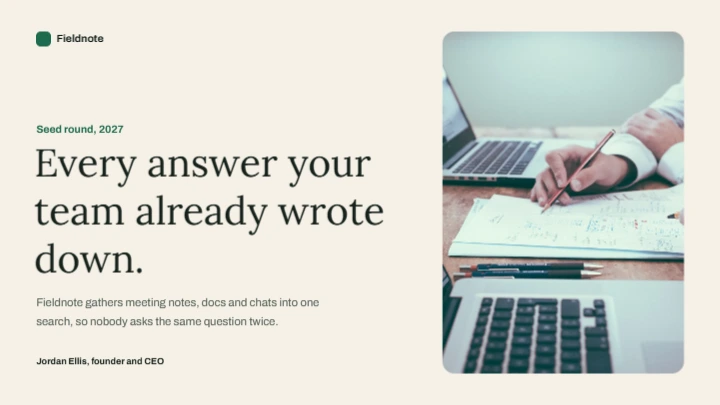
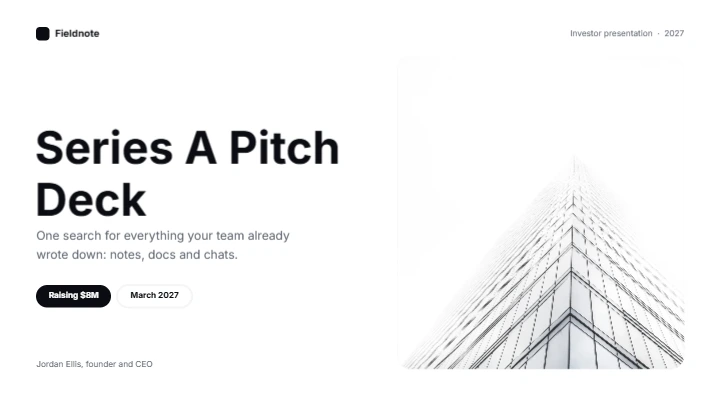
Pitch deck template after the best-selling Series A deck
White slides, heavy sans titles and one blue accent: a cover with a
photo panel and two pills, the problem as three cards (the middle one
dark), and the market as nested TAM/SAM/SOM circles with the figures.

diff --git a/frontend/scripts/templates/designs/pitchDeck.ts b/frontend/scripts/templates/designs/pitchDeck.ts
@@ -1,84 +1,90 @@
 import { DocBuilder, type PageBuilder } from '../kit'
-import type { IconName } from '../icons'
 import type { TemplateDesign } from '../registry'
 
-// Cream and ink with one deep green, the way calm investor decks look: a cover with a real photo, a slide of three
-// numbers and a dark closing slide with the contacts.
+// After the best-selling "Series A" investor deck: white slides, heavy sans titles, a small grey section label, a light
+// grey photo panel on the cover, the problem as three soft cards and the market as nested circles, with one blue accent.
 const W = 1920
 const H = 1080
-const CREAM = '#f5f0e6'
-const INK = '#16211c'
-const MUTED = '#55605a'
-const GREEN = '#1d6b4f'
-const PALE = '#dfe9e1'
-const CARD = '#ffffff'
-const NIGHT = '#16352a'
+const WHITE = '#ffffff'
+const INK = '#0b0d12'
+const MUTED = '#5e6470'
+const SOFT = '#f2f3f5'
+const LINE = '#e3e5e9'
+const BLUE = '#2f5bff'
 
-function logo(p: PageBuilder, on: string, color: string, mark: string): void {
-  p.rect({ name: 'Logo mark', x: 96, y: 84, w: 40, h: 40, fill: mark, radius: 12 })
-  p.text({ name: 'Company name', x: 150, y: 88, w: 500, text: 'Fieldnote', font: 'archivo', bold: true, size: 28, color, on, lines: 1 })
+function header(p: PageBuilder, section: string, index: string): void {
+  p.rect({ name: 'Logo mark', x: 96, y: 72, w: 36, h: 36, fill: INK, radius: 10 })
+  p.text({ name: 'Company name', x: 146, y: 74, w: 400, text: 'Fieldnote', font: 'inter', bold: true, size: 26, color: INK, on: WHITE, lines: 1 })
+  p.text({ name: 'Section', x: 1424, y: 78, w: 400, text: `${section}  ·  ${index}`, font: 'inter', size: 22, color: MUTED, on: WHITE, align: 'right', lines: 1 })
 }
 
 export const pitchDeck: TemplateDesign = {
   slug: 'modern-pitch-deck',
   title: 'Modern pitch deck',
   category: 'presentations',
-  tags: ['presentation', 'pitch', 'startup', 'deck', 'business', 'investor'],
-  description: 'A calm 16:9 pitch deck in cream, ink and deep green: a cover with a photo, a slide of three numbers and a closing slide with your contacts.',
+  tags: ['presentation', 'pitch', 'startup', 'deck', 'business', 'investor', 'series a'],
+  description: 'A clean investor deck in white, ink and one blue: a cover with a photo panel, the problem as three cards and the market as nested circles.',
   preset: 'presentation',
   featured: true,
   async build() {
     const doc = new DocBuilder(this.slug, { width: W, height: H, unit: 'px', presetId: 'presentation' })
 
     // 1. Cover.
-    const cover = doc.page('Cover', { type: 'solid', color: CREAM }, 'Say who you are and why this matters in one sentence.')
-    logo(cover, CREAM, INK, GREEN)
-    cover.text({ name: 'Eyebrow', x: 96, y: 330, w: 900, text: 'Seed round, 2027', font: 'archivo', bold: true, size: 28, color: GREEN, on: CREAM, lines: 1 })
-    cover.text({ name: 'Title', x: 90, y: 380, w: 1000, text: 'Every answer your team already wrote down.', font: 'lora', size: 104, color: INK, on: CREAM, lh: 1.08, lines: 3 })
-    cover.text({ name: 'Subtitle', x: 96, y: 790, w: 820, text: 'Fieldnote gathers meeting notes, docs and chats into one search, so nobody asks the same question twice.', font: 'archivo', size: 30, color: MUTED, on: CREAM, lh: 1.45, lines: 2 })
-    cover.text({ name: 'Presenter', x: 96, y: 950, w: 900, text: 'Jordan Ellis, founder and CEO', font: 'archivo', bold: true, size: 24, color: INK, on: CREAM, lines: 1 })
-    await cover.photo({ name: 'Cover photo', file: 'deck-desk.webp', x: 1180, y: 84, w: 644, h: 912, mask: 'rounded', maskRadius: 0.05, focusX: 0.55, focusY: 0.5 })
+    const cover = doc.page('Cover', { type: 'solid', color: WHITE }, 'Say what you do and what you are raising in one sentence.')
+    header(cover, 'Investor presentation', '2027')
+    cover.text({ name: 'Title', x: 92, y: 330, w: 900, text: 'Series A Pitch Deck', font: 'inter', bold: true, size: 120, color: INK, on: WHITE, lh: 1.02, lines: 2 })
+    cover.text({ name: 'Subtitle', x: 96, y: 610, w: 760, text: 'One search for everything your team already wrote down: notes, docs and chats.', font: 'inter', size: 32, color: MUTED, on: WHITE, lh: 1.4, lines: 2 })
+    cover.rect({ name: 'Pill 1', x: 96, y: 760, w: 200, h: 60, fill: INK, radius: 30 })
+    cover.text({ name: 'Pill 1 label', x: 96, y: 760 + 16, w: 200, text: 'Raising $8M', font: 'inter', bold: true, size: 22, color: WHITE, on: INK, align: 'center', lines: 1 })
+    cover.rect({ name: 'Pill 2', x: 312, y: 760, w: 200, h: 60, fill: WHITE, radius: 30, stroke: LINE, strokeWidth: 2 })
+    cover.text({ name: 'Pill 2 label', x: 312, y: 760 + 16, w: 200, text: 'March 2027', font: 'inter', bold: true, size: 22, color: INK, on: WHITE, align: 'center', lines: 1 })
+    cover.text({ name: 'Presenter', x: 96, y: 960, w: 800, text: 'Jordan Ellis, founder and CEO', font: 'inter', size: 22, color: MUTED, on: WHITE, lines: 1 })
+    cover.rect({ name: 'Photo panel', x: 1060, y: 150, w: 764, h: 834, fill: SOFT, radius: 36 })
+    await cover.photo({ name: 'Cover photo', file: 'deck-architecture.webp', x: 1060, y: 150, w: 764, h: 834, mask: 'rounded', maskRadius: 0.047, focusX: 0.25, focusY: 0.6 })
 
-    // 2. Why now: three numbers.
-    const why = doc.page('Why now', { type: 'solid', color: CREAM }, 'Three facts that make this the right moment. Replace the sample figures with your own and name the source.')
-    logo(why, CREAM, INK, GREEN)
-    why.text({ name: 'Eyebrow', x: 96, y: 220, w: 900, text: 'Why now', font: 'archivo', bold: true, size: 28, color: GREEN, on: CREAM, lines: 1 })
-    why.text({ name: 'Title', x: 92, y: 262, w: 1500, text: 'Teams write more than ever, and find less', font: 'lora', size: 76, color: INK, on: CREAM, lines: 1 })
-    const stats: { icon: IconName; value: string; label: string; text: string }[] = [
-      { icon: 'briefcase', value: '11', label: 'Apps hold a team’s notes', text: 'Docs, chat, email, tickets and meeting tools each keep a piece of the answer.' },
-      { icon: 'clock', value: '5 h', label: 'A week spent searching', text: 'Per person, asking around or searching the same places again.' },
-      { icon: 'user', value: '1 in 3', label: 'Questions already answered', text: 'The answer exists; nobody can find where it was written down.' },
+    // 2. The problem: three cards.
+    const problem = doc.page('The problem', { type: 'solid', color: WHITE }, 'Three problems your customer has today, each in one line.')
+    header(problem, 'The problem', '02')
+    problem.text({ name: 'Title', x: 92, y: 210, w: 1500, text: 'Answers get lost between tools', font: 'inter', bold: true, size: 84, color: INK, on: WHITE, lines: 1 })
+    problem.text({ name: 'Lead', x: 96, y: 330, w: 1200, text: 'Teams write more than ever, and find less of it when they need it.', font: 'inter', size: 30, color: MUTED, on: WHITE, lines: 1 })
+    const cards = [
+      { n: '01', title: 'Notes are everywhere', text: 'Docs, chat, email, tickets and meeting tools each hold part of the answer.' },
+      { n: '02', title: 'Search starts over', text: 'People spend about five hours a week looking for things they have seen before.' },
+      { n: '03', title: 'Questions repeat', text: 'One question in three has been answered already. Nobody can find where.' },
     ]
-    stats.forEach((s, i) => {
+    cards.forEach((c, i) => {
       const x = 96 + i * 584
-      why.rect({ name: `Card ${i + 1}`, x, y: 440, w: 552, h: 480, fill: CARD, radius: 28 })
-      why.circle({ name: `Icon disc ${i + 1}`, cx: x + 76, cy: 516, r: 36, fill: PALE })
-      why.icon({ name: `Icon ${i + 1}`, icon: s.icon, x: x + 56, y: 496, size: 40, color: GREEN, width: 2 })
-      why.text({ name: `Value ${i + 1}`, x: x + 40, y: 580, w: 480, text: s.value, font: 'archivo', bold: true, size: 110, color: GREEN, on: CARD, lh: 1, lines: 1 })
-      why.text({ name: `Label ${i + 1}`, x: x + 40, y: 712, w: 470, text: s.label, font: 'archivo', bold: true, size: 30, color: INK, on: CARD, lh: 1.25, lines: 1 })
-      why.text({ name: `Text ${i + 1}`, x: x + 40, y: 800, w: 470, text: s.text, font: 'archivo', size: 23, color: MUTED, on: CARD, lh: 1.45, lines: 2 })
+      const dark = i === 1
+      const fill = dark ? INK : SOFT
+      problem.rect({ name: `Card ${i + 1}`, x, y: 450, w: 552, h: 470, fill, radius: 28 })
+      problem.text({ name: `Card ${i + 1} number`, x: x + 44, y: 494, w: 200, text: c.n, font: 'inter', bold: true, size: 30, color: dark ? '#9aa3b2' : MUTED, on: fill, lines: 1 })
+      problem.text({ name: `Card ${i + 1} title`, x: x + 44, y: 700, w: 470, text: c.title, font: 'inter', bold: true, size: 40, color: dark ? WHITE : INK, on: fill, lines: 1 })
+      problem.text({ name: `Card ${i + 1} text`, x: x + 44, y: 768, w: 464, text: c.text, font: 'inter', size: 25, color: dark ? '#c9ced8' : MUTED, on: fill, lh: 1.45 })
     })
-    why.text({ name: 'Source', x: 96, y: 976, w: 1200, text: 'Sample figures: replace them with your own and name the source.', font: 'archivo', size: 20, color: MUTED, on: CREAM, lines: 1 })
 
-    // 3. Thank you.
-    const end = doc.page('Thank you', { type: 'solid', color: NIGHT }, 'Close with how to reach you.')
-    logo(end, NIGHT, CREAM, PALE)
-    end.text({ name: 'Title', x: 90, y: 320, w: 1100, text: 'Thank you', font: 'lora', size: 170, color: CREAM, on: NIGHT, lh: 1, lines: 1 })
-    end.text({ name: 'Subtitle', x: 96, y: 520, w: 900, text: 'Questions, or a demo for your team? Get in touch.', font: 'archivo', size: 36, color: PALE, on: NIGHT, lines: 1 })
-    const contacts: { icon: IconName; text: string }[] = [
-      { icon: 'mail', text: 'hello@fieldnote.example' },
-      { icon: 'globe', text: 'fieldnote.example' },
-      { icon: 'phone', text: '+1 555 0100' },
+    // 3. The market: nested circles and the three numbers.
+    const market = doc.page('Market opportunity', { type: 'solid', color: WHITE }, 'Size the market from the top down and say where the numbers come from.')
+    header(market, 'Market opportunity', '03')
+    market.text({ name: 'Title', x: 92, y: 210, w: 1500, text: 'A large market, and a clear first slice', font: 'inter', bold: true, size: 84, color: INK, on: WHITE, lines: 1 })
+    market.circle({ name: 'TAM circle', cx: 540, cy: 680, r: 300, fill: SOFT })
+    market.circle({ name: 'SAM circle', cx: 540, cy: 760, r: 210, fill: '#e1e7ff' })
+    market.circle({ name: 'SOM circle', cx: 540, cy: 850, r: 120, fill: BLUE })
+    market.text({ name: 'TAM label', x: 340, y: 430, w: 400, text: 'TAM', font: 'inter', bold: true, size: 28, color: MUTED, on: SOFT, align: 'center', lines: 1 })
+    market.text({ name: 'SAM label', x: 340, y: 590, w: 400, text: 'SAM', font: 'inter', bold: true, size: 28, color: '#3a4ba8', on: '#e1e7ff', align: 'center', lines: 1 })
+    market.text({ name: 'SOM label', x: 340, y: 830, w: 400, text: 'SOM', font: 'inter', bold: true, size: 32, color: WHITE, on: BLUE, align: 'center', lines: 1 })
+    const rows = [
+      { value: '$47B', label: 'Total addressable market', text: 'Knowledge-work software spend, worldwide.' },
+      { value: '$8.2B', label: 'Serviceable market', text: 'Teams of 20 to 500 people that already pay for a docs tool.' },
+      { value: '$410M', label: 'Obtainable in five years', text: 'Five per cent of the serviceable market.' },
     ]
-    contacts.forEach((c, i) => {
-      end.icon({ name: `${c.text} icon`, icon: c.icon, x: 96, y: 680 + i * 70, size: 34, color: PALE, width: 2 })
-      end.text({ name: c.text, x: 150, y: 682 + i * 70, w: 800, text: c.text, font: 'archivo', bold: true, size: 30, color: CREAM, on: NIGHT, lines: 1 })
+    rows.forEach((r, i) => {
+      const y = 420 + i * 190
+      market.line({ name: `Rule ${i + 1}`, x1: 1000, y1: y, x2: 1824, y2: y, color: LINE, width: 2 })
+      market.text({ name: `Value ${i + 1}`, x: 1000, y: y + 34, w: 330, text: r.value, font: 'inter', bold: true, size: 76, color: i === 2 ? BLUE : INK, on: WHITE, lh: 1, lines: 1 })
+      market.text({ name: `Label ${i + 1}`, x: 1340, y: y + 36, w: 484, text: r.label, font: 'inter', bold: true, size: 28, color: INK, on: WHITE, lines: 1 })
+      market.text({ name: `Text ${i + 1}`, x: 1340, y: y + 82, w: 484, text: r.text, font: 'inter', size: 22, color: MUTED, on: WHITE, lh: 1.4 })
     })
-    // The founder's initials where a portrait would go.
-    end.circle({ name: 'Monogram disc', cx: 1550, cy: 520, r: 230, fill: GREEN })
-    end.text({ name: 'Monogram', x: 1320, y: 440, w: 460, text: 'JE', font: 'lora', size: 150, color: CREAM, on: GREEN, align: 'center', lh: 1, lines: 1 })
-    end.text({ name: 'Founder', x: 1320, y: 790, w: 460, text: 'Jordan Ellis', font: 'archivo', bold: true, size: 30, color: CREAM, on: NIGHT, align: 'center', lines: 1 })
-    end.text({ name: 'Founder role', x: 1320, y: 834, w: 460, text: 'Founder and CEO', font: 'archivo', size: 24, color: PALE, on: NIGHT, align: 'center', lines: 1 })
+    market.text({ name: 'Source', x: 96, y: 1000, w: 1400, text: 'Sample figures: replace them with your own and name the source.', font: 'inter', size: 20, color: MUTED, on: WHITE, lines: 1 })
     return doc
   },
 }
